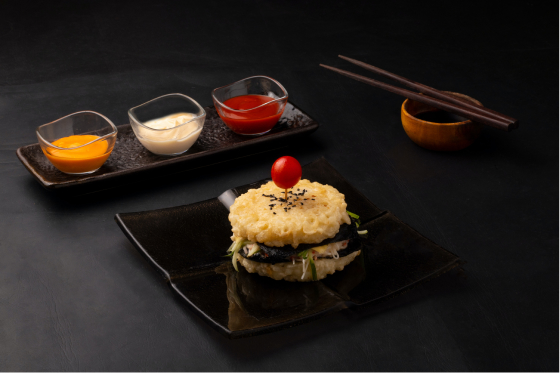
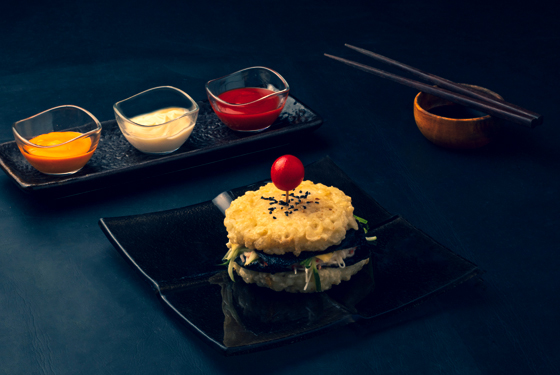
adding svg and retouching img

diff --git a/dist/main.js b/dist/main.js
@@ -48,7 +48,7 @@ eval("__webpack_require__.r(__webpack_exports__);\n/* harmony export */ __webpac
 /***/ ((__unused_webpack_module, __webpack_exports__, __webpack_require__) => {
 
 "use strict";
-eval("__webpack_require__.r(__webpack_exports__);\n/* harmony export */ __webpack_require__.d(__webpack_exports__, {\n/* harmony export */   \"createContact\": () => /* binding */ createContact\n/* harmony export */ });\nconst createContact = (element) => {\r\n  const headline = document.createElement('h1');\r\n  headline.innerHTML = 'SashaContact';\r\n  element.appendChild(headline);\r\n};\r\n\r\n\r\n\n\n//# sourceURL=webpack://restaurant_page/./src/modules/modules_tabs/contact.js?");
+eval("__webpack_require__.r(__webpack_exports__);\n/* harmony export */ __webpack_require__.d(__webpack_exports__, {\n/* harmony export */   \"createContact\": () => /* binding */ createContact\n/* harmony export */ });\nconst createSocialNav = (element) => {\r\n  const socialNav = document.createElement('nav');\r\n  const socialLinks = ['facebook', 'instagram', 'twitter'];\r\n\r\n  socialLinks.forEach((socialLink) => {\r\n    const link = document.createElement('a');\r\n    link.href = `http://www.${socialLink}.com`;\r\n    link.innerHTML = socialLink;\r\n    socialNav.appendChild(link);\r\n  });\r\n\r\n  element.appendChild(socialNav);\r\n};\r\n\r\nconst createContact = (element) => {\r\n  const headline = document.createElement('h1');\r\n  const container = document.createElement('div');\r\n  const picture = document.createElement('img');\r\n  const formContainer = document.createElement('div');\r\n  const formTitle = document.createElement('h2');\r\n  const formContact = document.createElement('div');\r\n  const formContactAdress = document.createElement('p');\r\n  const formContactPhone = document.createElement('p');\r\n\r\n  headline.innerHTML = 'SashaContact';\r\n  formTitle.innerHTML = 'SashaSushi';\r\n  formContactAdress.innerHTML = '1636 South St - Philadelphia, PA';\r\n  formContactPhone.innerHTML = '(215) 735-6668';\r\n  picture.src = '../../src/assets/img/contact_image.jpg';\r\n\r\n  formContainer.classList.add('form__container');\r\n  container.classList.add('container');\r\n\r\n  formContact.appendChild(formContactAdress);\r\n  formContact.appendChild(formContactPhone);\r\n  formContainer.appendChild(formTitle);\r\n  formContainer.appendChild(formContact);\r\n  createSocialNav(formContainer);\r\n\r\n  container.appendChild(picture);\r\n  container.appendChild(formContainer);\r\n\r\n  element.appendChild(headline);\r\n  element.appendChild(container);\r\n};\r\n\r\n\r\n\n\n//# sourceURL=webpack://restaurant_page/./src/modules/modules_tabs/contact.js?");
 
 /***/ }),
 
@@ -70,7 +70,7 @@ eval("__webpack_require__.r(__webpack_exports__);\n/* harmony export */ __webpac
 /***/ ((__unused_webpack_module, __webpack_exports__, __webpack_require__) => {
 
 "use strict";
-eval("__webpack_require__.r(__webpack_exports__);\n/* harmony export */ __webpack_require__.d(__webpack_exports__, {\n/* harmony export */   \"createMenu\": () => /* binding */ createMenu\n/* harmony export */ });\nconst createMenu = (element) => {\r\n  const headline = document.createElement('h1');\r\n  const sliderContainer = document.createElement('div');\r\n  headline.innerHTML = 'SashaMenu';\r\n  sliderContainer.classList.add('slider__container');\r\n  createSlider(sliderElements, sliderContainer);\r\n  element.appendChild(headline);\r\n  element.appendChild(sliderContainer);\r\n};\r\n\r\n\r\n\r\nconst sliderElements = [\r\n  {\r\n    title: \"Sasha's Burger\",\r\n    description: 'Delicious burger with tuna and nori',\r\n    url: '../../src/assets/img/slider_image_burger.jpg',\r\n  },\r\n  {\r\n    title: \"Sasha's Combo\",\r\n    description: 'Combination of chef’s selection',\r\n    url: '../../src/assets/img/slider_image_combo.jpg',\r\n  },\r\n  {\r\n    title: \"Sasha's Burger\",\r\n    description: 'Pretty California Rolls Royce',\r\n    url: '../../src/assets/img/slider_image_california.jpg',\r\n  },\r\n];\r\n\r\n/**\r\n *\r\n * @param {array} elements array of objects\r\n * @param {HTMLElement} container HTMLelement\r\n */\r\nconst createSlider = (elements, container) => {\r\n  elements.forEach((element) => {\r\n    const elementsContainer = document.createElement('div');\r\n    const elementsHeader = document.createElement('div');\r\n    const elementsHeaderTitle = document.createElement('h2');\r\n    const elementsHeaderText = document.createElement('p');\r\n    const elementsPicture = document.createElement('img');\r\n    elementsContainer.classList.add('elements__wrapper');\r\n    elementsHeader.classList.add('elements__header');\r\n    elementsHeaderTitle.innerHTML = element.title;\r\n    elementsHeaderText.innerHTML = element.description;\r\n    elementsPicture.src = element.url;\r\n    elementsHeader.appendChild(elementsHeaderTitle);\r\n    elementsHeader.appendChild(elementsHeaderText);\r\n    elementsContainer.appendChild(elementsHeader);\r\n    elementsContainer.appendChild(elementsPicture);\r\n\r\n    container.appendChild(elementsContainer);\r\n  });\r\n};\r\n\n\n//# sourceURL=webpack://restaurant_page/./src/modules/modules_tabs/menu.js?");
+eval("__webpack_require__.r(__webpack_exports__);\n/* harmony export */ __webpack_require__.d(__webpack_exports__, {\n/* harmony export */   \"createMenu\": () => /* binding */ createMenu\n/* harmony export */ });\nconst sliderElements = [\r\n  {\r\n    title: \"Sasha's Burger\",\r\n    description: 'Delicious burger with tuna and nori',\r\n    url: '../../src/assets/img/slider_image_burger.jpg',\r\n  },\r\n  {\r\n    title: \"Sasha's Combo\",\r\n    description: 'Combination of chef’s selection',\r\n    url: '../../src/assets/img/slider_image_combo.jpg',\r\n  },\r\n  {\r\n    title: \"Sasha's Burger\",\r\n    description: 'Pretty California Rolls Royce',\r\n    url: '../../src/assets/img/slider_image_california.jpg',\r\n  },\r\n];\r\n/**\r\n *\r\n * @param {array} elements array of objects\r\n * @param {HTMLElement} container HTMLElement to append each elements.\r\n */\r\nconst createSlider = (elements, container) => {\r\n  elements.forEach((element) => {\r\n    const elementsContainer = document.createElement('div');\r\n    const elementsHeader = document.createElement('div');\r\n    const elementsHeaderTitle = document.createElement('h2');\r\n    const elementsHeaderText = document.createElement('p');\r\n    const elementsPicture = document.createElement('img');\r\n    elementsContainer.classList.add('elements__wrapper');\r\n    elementsHeader.classList.add('elements__header');\r\n    elementsHeaderTitle.innerHTML = element.title;\r\n    elementsHeaderText.innerHTML = element.description;\r\n    elementsPicture.src = element.url;\r\n    elementsHeader.appendChild(elementsHeaderTitle);\r\n    elementsHeader.appendChild(elementsHeaderText);\r\n    elementsContainer.appendChild(elementsHeader);\r\n    elementsContainer.appendChild(elementsPicture);\r\n\r\n    container.appendChild(elementsContainer);\r\n  });\r\n};\r\n\r\nconst createMenu = (element) => {\r\n  const headline = document.createElement('h1');\r\n  const sliderContainer = document.createElement('div');\r\n  headline.innerHTML = 'SashaMenu';\r\n  sliderContainer.classList.add('slider__container');\r\n  createSlider(sliderElements, sliderContainer);\r\n  element.appendChild(headline);\r\n  element.appendChild(sliderContainer);\r\n};\r\n\r\n\r\n\n\n//# sourceURL=webpack://restaurant_page/./src/modules/modules_tabs/menu.js?");
 
 /***/ }),
 

diff --git a/src/modules/modules_tabs/contact.js b/src/modules/modules_tabs/contact.js
@@ -1,7 +1,47 @@
+const createSocialNav = (element) => {
+  const socialNav = document.createElement('nav');
+  const socialLinks = ['facebook', 'instagram', 'twitter'];
+
+  socialLinks.forEach((socialLink) => {
+    const link = document.createElement('a');
+    link.href = `http://www.${socialLink}.com`;
+    link.innerHTML = socialLink;
+    socialNav.appendChild(link);
+  });
+
+  element.appendChild(socialNav);
+};
+
 const createContact = (element) => {
   const headline = document.createElement('h1');
+  const container = document.createElement('div');
+  const picture = document.createElement('img');
+  const formContainer = document.createElement('div');
+  const formTitle = document.createElement('h2');
+  const formContact = document.createElement('div');
+  const formContactAdress = document.createElement('p');
+  const formContactPhone = document.createElement('p');
+
   headline.innerHTML = 'SashaContact';
+  formTitle.innerHTML = 'SashaSushi';
+  formContactAdress.innerHTML = '1636 South St - Philadelphia, PA';
+  formContactPhone.innerHTML = '(215) 735-6668';
+  picture.src = '../../src/assets/img/contact_image.jpg';
+
+  formContainer.classList.add('form__container');
+  container.classList.add('container');
+
+  formContact.appendChild(formContactAdress);
+  formContact.appendChild(formContactPhone);
+  formContainer.appendChild(formTitle);
+  formContainer.appendChild(formContact);
+  createSocialNav(formContainer);
+
+  container.appendChild(picture);
+  container.appendChild(formContainer);
+
   element.appendChild(headline);
+  element.appendChild(container);
 };
 
 export { createContact };

diff --git a/src/modules/modules_tabs/menu.js b/src/modules/modules_tabs/menu.js
@@ -1,15 +1,3 @@
-const createMenu = (element) => {
-  const headline = document.createElement('h1');
-  const sliderContainer = document.createElement('div');
-  headline.innerHTML = 'SashaMenu';
-  sliderContainer.classList.add('slider__container');
-  createSlider(sliderElements, sliderContainer);
-  element.appendChild(headline);
-  element.appendChild(sliderContainer);
-};
-
-export { createMenu };
-
 const sliderElements = [
   {
     title: "Sasha's Burger",
@@ -27,11 +15,10 @@ const sliderElements = [
     url: '../../src/assets/img/slider_image_california.jpg',
   },
 ];
-
 /**
  *
  * @param {array} elements array of objects
- * @param {HTMLElement} container HTMLelement
+ * @param {HTMLElement} container HTMLElement to append each elements.
  */
 const createSlider = (elements, container) => {
   elements.forEach((element) => {
@@ -53,3 +40,15 @@ const createSlider = (elements, container) => {
     container.appendChild(elementsContainer);
   });
 };
+
+const createMenu = (element) => {
+  const headline = document.createElement('h1');
+  const sliderContainer = document.createElement('div');
+  headline.innerHTML = 'SashaMenu';
+  sliderContainer.classList.add('slider__container');
+  createSlider(sliderElements, sliderContainer);
+  element.appendChild(headline);
+  element.appendChild(sliderContainer);
+};
+
+export { createMenu };

diff --git a/dist/css/main.css b/dist/css/main.css
@@ -118,3 +118,11 @@ main {
   font-family: contentText;
   text-align: right;
 }
+
+.container {
+  display: flex;
+  flex-direction: row;
+  justify-content: center;
+  align-items: center;
+  max-width: 1250px;
+}
